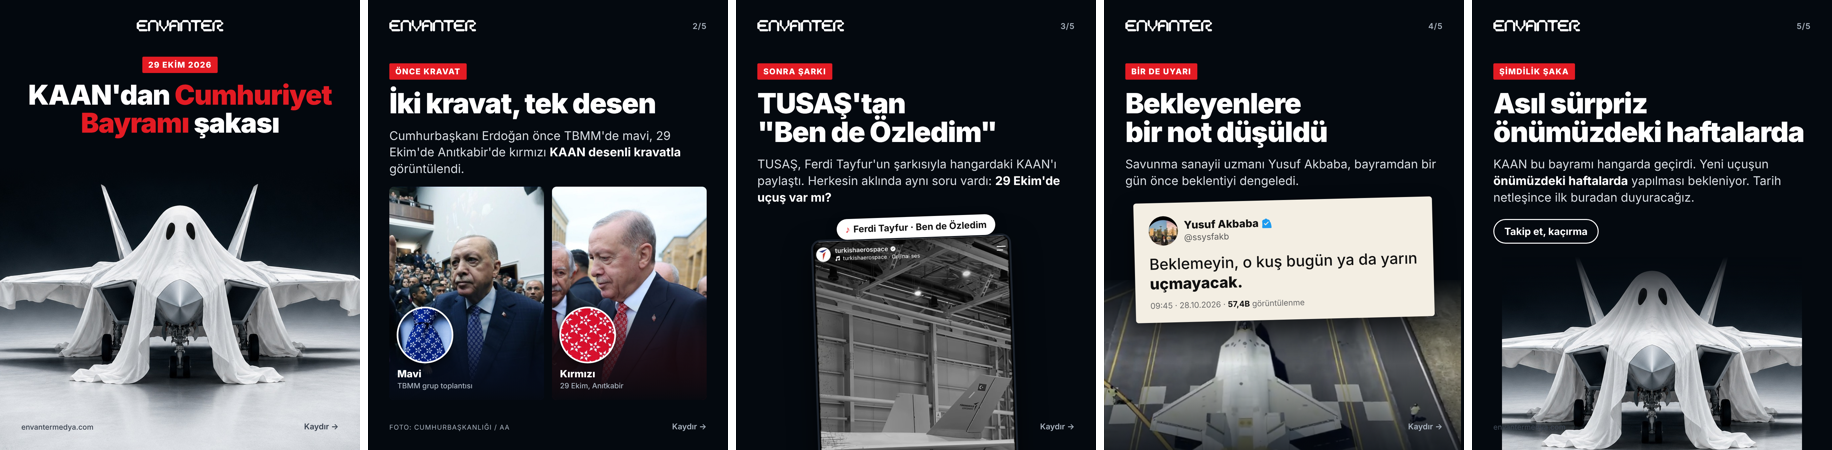
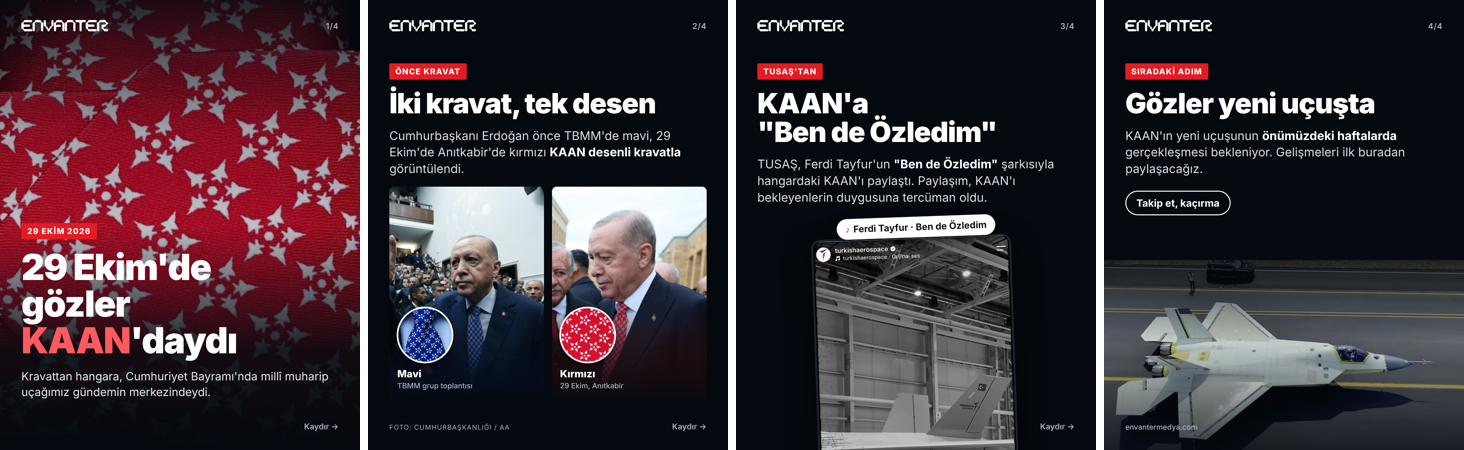
KAAN 29 Ekim carousel'i olumlu çerçeveye çevrildi: şaka ve uçmadı vurgusu, hayalet kapak ve tweet slaytı çıkarıldı
Claude-Session: https://claude.ai/code/session_01AWoAGzbCcH5xr3TPTj3t44

diff --git a/kartlar/kaan-29-ekim/seri.html b/kartlar/kaan-29-ekim/seri.html
@@ -17,30 +17,7 @@ body{background:#000;font-family:"Inter",sans-serif;}
 .photo{position:absolute;left:0;right:0;bottom:0;height:640px;background-repeat:no-repeat;filter:grayscale(.15) brightness(.92)}
 .fade{position:absolute;left:0;right:0;bottom:0;height:640px;background:linear-gradient(180deg,var(--bg) 0%,rgba(4,9,15,.55) 22%,rgba(4,9,15,0) 50%,rgba(4,9,15,.75) 100%)}
 
-/* 1 cover */
-.c1 .ghost{position:absolute;left:-23px;top:104px;width:1126px;height:1397px;background:url(_src/ghost.jpg) 0 0/1126px 1397px no-repeat}
-.c1 .mask{position:absolute;left:0;right:0;top:0;height:580px;background:linear-gradient(180deg,#03080E 0%,#03080E 86%,rgba(3,8,14,0) 100%)}
-.c1 .base{position:absolute;left:0;right:0;top:0;height:120px;background:#03080E}
-.c1 .text{top:170px;text-align:center}
-.c1 .h{font-size:82px;margin-top:24px}
-.c1 .h em{font-style:normal;color:var(--red)}
-.c1 .bot{position:absolute;left:0;right:0;bottom:0;height:150px;background:linear-gradient(180deg,rgba(230,232,236,0) 0%,rgba(230,232,236,.0) 100%)}
-.c1 .swipe,.c1 .site{color:#3a4350}
-
-/* tweet */
-.tw{position:absolute;left:92px;top:600px;width:896px;background:var(--paper);border-radius:8px;padding:40px 44px 36px;transform:rotate(-1.4deg);box-shadow:0 30px 60px rgba(0,0,0,.5);color:#111;z-index:4}
-.tw .hd{display:flex;align-items:center;gap:18px}
-.tw .av{width:88px;height:88px;border-radius:50%;background:url(_src/avatar.png) center/cover}
-.tw .nm{font-weight:800;font-size:32px;display:flex;align-items:center;gap:8px}
-.tw .hn{font-size:26px;color:#5a5a5a;margin-top:2px}
-.tw .tx{font-size:46px;line-height:1.28;margin-top:26px;font-weight:500}
-.tw .tx b{font-weight:800}
-.tw .ft{font-size:24px;color:#6a6a6a;margin-top:22px}
-.tw .ft b{color:#111}
-
 /* last */
-.c5 .peek{position:absolute;left:50%;bottom:-180px;width:900px;height:760px;transform:translateX(-50%);background:url(_src/ghost.jpg) -113px -470px/1126px 1397px no-repeat;
-  -webkit-mask-image:linear-gradient(180deg,transparent 0%,#000 30%);mask-image:linear-gradient(180deg,transparent 0%,#000 30%)}
 .cta{display:inline-block;margin-top:40px;border:3px solid #fff;border-radius:999px;padding:16px 30px;font-size:30px;font-weight:700}
 
 /* slide 2 ties */
@@ -56,23 +33,32 @@ body{background:#000;font-family:"Inter",sans-serif;}
 .phone{position:absolute;left:50%;top:710px;width:600px;height:900px;transform:translateX(-50%) rotate(-2deg);border-radius:28px;overflow:hidden;border:6px solid #1c232d;box-shadow:0 30px 80px rgba(0,0,0,.6);background:url(_src/tusas-video.jpg) center top/600px auto no-repeat;z-index:3}
 .song{position:absolute;left:50%;top:650px;transform:translateX(-50%) rotate(-2deg);z-index:6;background:#fff;color:#111;border-radius:999px;padding:14px 26px;font-size:28px;font-weight:700;white-space:nowrap;box-shadow:0 10px 30px rgba(0,0,0,.5)}
 .song i{font-style:normal;color:var(--red);margin-right:10px}
+
+/* new cover */
+.k1 .bg{position:absolute;inset:-40px;background:url(_src/kravat-kirmizi-buyuk.jpg) center/cover;transform:rotate(-4deg)}
+.k1 .ov{position:absolute;inset:0;background:linear-gradient(180deg,rgba(4,9,15,.88) 0%,rgba(4,9,15,.35) 30%,rgba(4,9,15,.25) 50%,rgba(4,9,15,.92) 78%,#04090F 100%)}
+.k1 .text{top:auto;bottom:150px}
+.k1 .h{font-size:108px;letter-spacing:-3px}
+.k1 .h em{font-style:normal;color:#FF5A5F}
+.k1 .p{font-size:34px;color:#E6E9ED}
+.last .ph2{position:absolute;left:0;right:0;bottom:0;height:640px;background:url(_src/kaan-side.jpg) -60px 70px/1180px auto no-repeat;filter:brightness(.95)}
 </style></head><body>
 
 <!-- 1 -->
-<section class="card c1" id="s1">
-  <div class="base"></div><div class="ghost"></div><div class="mask"></div>
-  <img class="logo" src="_src/logo-white.png" style="left:50%;transform:translateX(-50%)">
+<section class="card k1" id="s1">
+  <div class="bg"></div><div class="ov"></div>
+  <img class="logo" src="_src/logo-white.png"><div class="num">1/4</div>
   <div class="text">
     <span class="label">29 EKİM 2026</span>
-    <div class="h">KAAN'dan <em>Cumhuriyet</em><br><em>Bayramı</em> şakası</div>
+    <div class="h">29 Ekim'de<br>gözler <em>KAAN</em>'daydı</div>
+    <div class="p">Kravattan hangara, Cumhuriyet Bayramı'nda millî muharip uçağımız gündemin merkezindeydi.</div>
   </div>
-  <div class="site">envantermedya.com</div>
   <div class="swipe">Kaydır →</div>
 </section>
 
 <!-- 2 -->
 <section class="card" id="s2">
-  <img class="logo" src="_src/logo-white.png"><div class="num">2/5</div>
+  <img class="logo" src="_src/logo-white.png"><div class="num">2/4</div>
   <div class="text">
     <span class="label">ÖNCE KRAVAT</span>
     <div class="h">İki kravat, tek desen</div>
@@ -92,46 +78,28 @@ body{background:#000;font-family:"Inter",sans-serif;}
 
 <!-- 3 -->
 <section class="card" id="s3">
-  <img class="logo" src="_src/logo-white.png"><div class="num">3/5</div>
+  <img class="logo" src="_src/logo-white.png"><div class="num">3/4</div>
   <div class="text">
-    <span class="label">SONRA ŞARKI</span>
-    <div class="h">TUSAŞ'tan<br>"Ben de Özledim"</div>
-    <div class="p">TUSAŞ, Ferdi Tayfur'un şarkısıyla hangardaki KAAN'ı paylaştı. Herkesin aklında aynı soru vardı: <b>29 Ekim'de uçuş var mı?</b></div>
+    <span class="label">TUSAŞ'TAN</span>
+    <div class="h">KAAN'a<br>"Ben de Özledim"</div>
+    <div class="p">TUSAŞ, Ferdi Tayfur'un <b>"Ben de Özledim"</b> şarkısıyla hangardaki KAAN'ı paylaştı. Paylaşım, KAAN'ı bekleyenlerin duygusuna tercüman oldu.</div>
   </div>
   <div class="song"><i>♪</i>Ferdi Tayfur · Ben de Özledim</div>
   <div class="phone"></div>
   <div class="swipe" style="z-index:7">Kaydır →</div>
 </section>
 
-<!-- 4 -->
-<section class="card" id="s4">
-  <img class="logo" src="_src/logo-white.png"><div class="num">4/5</div>
-  <div class="text">
-    <span class="label">BİR DE UYARI</span>
-    <div class="h">Bekleyenlere<br>bir not düşüldü</div>
-    <div class="p">Savunma sanayii uzmanı Yusuf Akbaba, bayramdan bir gün önce beklentiyi dengeledi.</div>
-  </div>
-  <div class="tw">
-    <div class="hd"><div class="av"></div>
-      <div><div class="nm">Yusuf Akbaba <svg width="30" height="30" viewBox="0 0 24 24"><path fill="#1D9BF0" d="M22.5 12.5c0-1.6-1-3-2.4-3.6.3-1.5-.2-3-1.3-4.1-1.1-1.1-2.6-1.6-4.1-1.3C14 2.1 12.7 1.1 11 1.1S8.1 2.1 7.4 3.5c-1.5-.3-3 .2-4.1 1.3-1.1 1.1-1.6 2.6-1.3 4.100.6 9.5-.4 10.9-.4 12.5s1 3 2.4 3.6c-.3 1.5.2 3 1.3 4.1 1.1 1.1 2.6 1.6 4.1 1.3.7 1.4 2.1 2.4 3.6 2.4s2.9-1 3.6-2.4c1.5.3 3-.2 4.1-1.3 1.1-1.1 1.6-2.6 1.3-4.1 1.5-.6 2.5-2 2.5-3.6zm-12.6 5.1l-4.1-4.1 1.6-1.6 2.5 2.5 6.2-6.2 1.6 1.6-7.8 7.8z"/></svg></div>
-      <div class="hn">@ssysfakb</div></div></div>
-    <div class="tx">Beklemeyin, o kuş bugün ya da yarın <b>uçmayacak.</b></div>
-    <div class="ft">09:45 · 28.10.2026 · <b>57,4B</b> görüntülenme</div>
-  </div>
-  <div class="photo" style="height:520px;background-image:url(_src/kaan.jpg);background-size:auto 700px;background-position:-200px 10px"></div><div class="fade" style="height:520px"></div>
-  <div class="swipe">Kaydır →</div>
-</section>
 
-<!-- 5 -->
-<section class="card c5" id="s5">
-  <img class="logo" src="_src/logo-white.png"><div class="num">5/5</div>
+<!-- 4 -->
+<section class="card last" id="s4">
+  <img class="logo" src="_src/logo-white.png"><div class="num">4/4</div>
   <div class="text">
-    <span class="label">ŞİMDİLİK ŞAKA</span>
-    <div class="h">Asıl sürpriz<br>önümüzdeki haftalarda</div>
-    <div class="p">KAAN bu bayramı hangarda geçirdi. Yeni uçuşun <b>önümüzdeki haftalarda</b> yapılması bekleniyor. Tarih netleşince ilk buradan duyuracağız.</div>
+    <span class="label">SIRADAKİ ADIM</span>
+    <div class="h">Gözler yeni uçuşta</div>
+    <div class="p">KAAN'ın yeni uçuşunun <b>önümüzdeki haftalarda</b> gerçekleşmesi bekleniyor. Gelişmeleri ilk buradan paylaşacağız.</div>
     <div class="cta">Takip et, kaçırma</div>
   </div>
-  <div class="peek"></div>
-  <div class="site" style="color:#3a4350">envantermedya.com</div>
+  <div class="ph2"></div><div class="fade"></div>
+  <div class="site">envantermedya.com</div>
 </section>
 </body></html>

diff --git a/kartlar/kaan-29-ekim/_src/render-seri.js b/kartlar/kaan-29-ekim/_src/render-seri.js
@@ -4,7 +4,7 @@ const { chromium } = require('playwright');
   const p = await b.newPage({ viewport: { width: 1080, height: 1350 }, deviceScaleFactor: 1 });
   await p.goto('file://' + process.cwd() + '/seri.html');
   await p.waitForTimeout(600);
-  const names = ['1-kapak','2-kravat','3-sarki','4-uyari','5-sonraki-ucus'];
-  for (let i = 0; i < 5; i++) await (await p.$('#s' + (i + 1))).screenshot({ path: 'seri/' + names[i] + '.png' });
+  const names = ['1-kapak','2-kravat','3-tusas','4-siradaki-adim'];
+  for (let i = 0; i < 4; i++) await (await p.$('#s' + (i + 1))).screenshot({ path: 'seri/' + names[i] + '.png' });
   await b.close();
 })();

diff --git a/kartlar/kaan-29-ekim/caption.md b/kartlar/kaan-29-ekim/caption.md
@@ -1,37 +1,34 @@
 # KAAN 29 Ekim carousel — caption
 
-Görseller: `seri/1-kapak.png` … `seri/5-sonraki-ucus.png` (5 slayt, 1080×1350, Instagram 4:5). Kaynak: `seri.html`.
+Görseller: `seri/1-kapak.png` … `seri/4-siradaki-adim.png` (4 slayt, 1080×1350, Instagram 4:5). Kaynak: `seri.html`.
 
-Kapak, Envanter'in Cadılar Bayramı için yaptığı hayalet örtülü KAAN görseli. Seri, olayı alay değil KAAN'ın tatlı bir bayram şakası olarak anlatıyor.
+Çerçeve: olumlu ve ileriye dönük. "Şaka", "uçmadı" ve hayalet görseli kutuplaşma ve TUSAŞ'ı hedef alıyor gibi okunma riski nedeniyle çıkarıldı.
 
 | Slayt | İçerik |
 |---|---|
-| 1 | KAAN'dan Cumhuriyet Bayramı şakası (hayaletli KAAN) |
-| 2 | Önce kravat: Erdoğan'ın TBMM'deki mavi ve 29 Ekim'deki kırmızı KAAN desenli kravatları (Foto: Cumhurbaşkanlığı / AA) |
-| 3 | Sonra şarkı: TUSAŞ'ın "Ben de Özledim" şarkılı hangar videosunun ekran görüntüsü |
-| 4 | Bir de uyarı: Yusuf Akbaba'nın 28 Ekim tweet'i |
-| 5 | Şimdilik şaka: yeni uçuş önümüzdeki haftalarda bekleniyor |
+| 1 | 29 Ekim'de gözler KAAN'daydı (kırmızı KAAN kravatı deseni) |
+| 2 | İki kravat, tek desen: TBMM'de mavi, 29 Ekim'de Anıtkabir'de kırmızı (Foto: Cumhurbaşkanlığı / AA) |
+| 3 | TUSAŞ'ın "Ben de Özledim" şarkılı hangar paylaşımı |
+| 4 | Sıradaki adım: yeni uçuş önümüzdeki haftalarda bekleniyor |
 
 ## Instagram / Facebook
 
-👻 KAAN'dan Cumhuriyet Bayramı şakası
+🇹🇷 29 Ekim'de gözler KAAN'daydı
 
-Önce Cumhurbaşkanı Erdoğan'ın KAAN desenli kravatları geldi: TBMM'de mavisi, 29 Ekim'de Anıtkabir'de kırmızısı. TUSAŞ da Ferdi Tayfur'un "Ben de Özledim" şarkısıyla hangardaki KAAN'ı paylaştı. İşaretler o kadar güçlüydü ki çoğumuz 29 Ekim sabahı gözü gökyüzünde bekledik.
+Cumhurbaşkanı Erdoğan, TBMM grup toplantısında mavi, 29 Ekim'de Anıtkabir'de kırmızı KAAN desenli kravatıyla dikkat çekti. TUSAŞ da Ferdi Tayfur'un "Ben de Özledim" şarkısıyla hangardaki KAAN'ı paylaşarak millî muharip uçağımıza duyulan özlemi dile getirdi.
 
-KAAN ise bayramı hangarda, örtüsünün altında geçirdi. Savunma sanayii uzmanı Yusuf Akbaba bir gün önceden haber vermişti: "Beklemeyin, o kuş bugün ya da yarın uçmayacak."
-
-Asıl sürpriz önümüzdeki haftalarda bekleniyor. Uçuş tarihi netleşince ilk buradan duyuracağız; kaçırmamak için takip edin.
+KAAN'ın yeni uçuşunun önümüzdeki haftalarda gerçekleşmesi bekleniyor. Gelişmeleri kaçırmamak için takip edin.
 
 Cumhuriyetimizin 103. yılı kutlu olsun 🇹🇷
 
-#KAAN #TUSAŞ #29Ekim #CumhuriyetBayramı #SavunmaSanayii
+#KAAN #TUSAŞ #29Ekim #CumhuriyetBayramı #MillîMuharipUçak
 
 ## X
 
-KAAN'dan 29 Ekim şakası 👻 Erdoğan'ın iki KAAN kravatı ve TUSAŞ'ın "Ben de Özledim" videosu sonrası herkes bayramda uçuş bekledi, KAAN bayramı hangarda geçirdi. Yeni uçuş önümüzdeki haftalarda bekleniyor. Cumhuriyetimizin 103. yılı kutlu olsun 🇹🇷
+29 Ekim'de gözler KAAN'daydı. Cumhurbaşkanı Erdoğan'ın KAAN desenli kravatları ve TUSAŞ'ın "Ben de Özledim" paylaşımı bayrama damga vurdu. KAAN'ın yeni uçuşu önümüzdeki haftalarda bekleniyor. Cumhuriyetimizin 103. yılı kutlu olsun 🇹🇷
 
 #KAAN #TUSAŞ #29Ekim
 
 ## Kısa sürüm (story / LinkedIn)
 
-İki kravat vardı, "Ben de Özledim" vardı, beklenti vardı. KAAN bu bayramı hangarda geçirdi; asıl sürpriz önümüzdeki haftalarda.
+Kravattan hangara, 29 Ekim'de gözler KAAN'daydı. Yeni uçuş önümüzdeki haftalarda bekleniyor.
